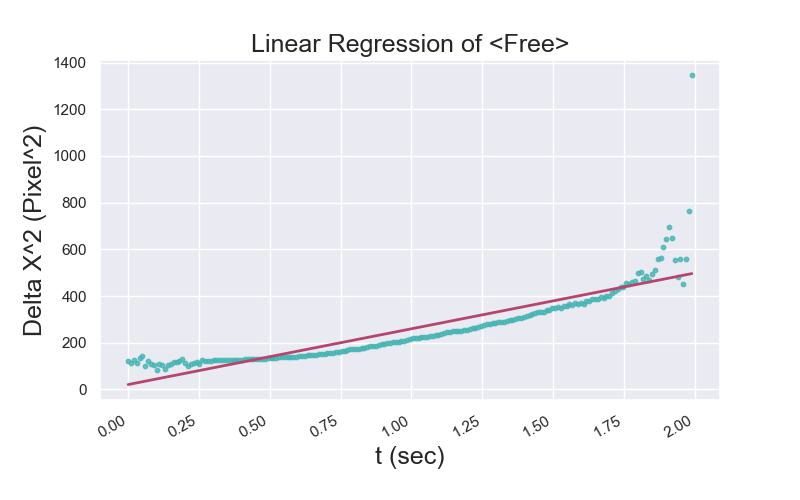
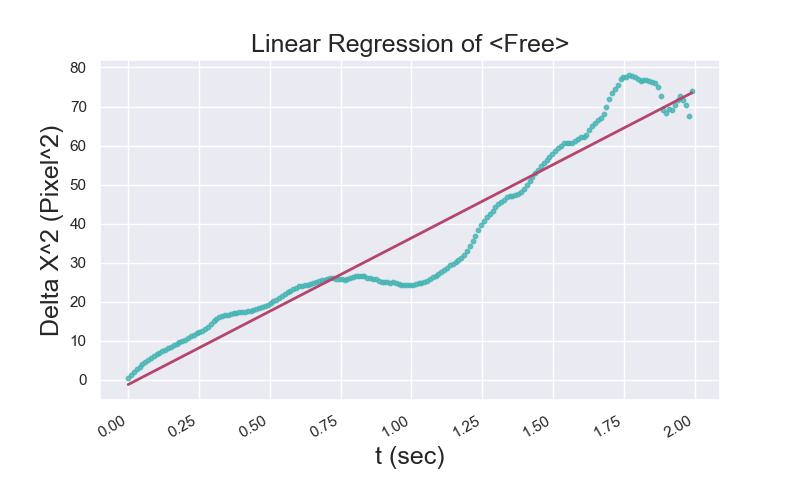
Fix loss track issue

diff --git a/utils.py b/utils.py
@@ -1,5 +1,6 @@
-from tkinter.tix import Tree
-import cv2, os, glob
+import cv2
+import os
+import glob
 from PIL import Image
 import numpy as np
 import pandas as pd
@@ -273,160 +274,7 @@ def Track(SrcFolder, OutFolder, OutName="test", SavePlot=True):
     print(f"image shape:{image_initial.shape}, ROI:{roi.shape}\n")
     return list_x, list_y
 
-def Track2(SrcFolder, OutFolder,OutName="test",SavePlot=True):
-    """
-    Track the circle particle in the pictures.
-    Return the track point result in format of two list (x_list, y_list)
-        
-    Args:
-        SrcFolder: (str) input folder locaiton (picture file)
-        OutFolder: (str) output folder location (video file)
-        OutName: (str) AVI clip name
-        SavePlot:(bool) whether to save the reuslts (sequiential figures)
-    """
-    list_x ,list_y = [],[]
-
-    #---------Find circles in images--------------------------------------------------------------------------------
-    for filename in sorted(os.listdir(SrcFolder)):
-        Corr =[0,0,0,0,0,0,0] #x1, x2, y1, y2, centerx, centery, radius 
-        image_initial = np.asarray(ReadGrayImg(f"{SrcFolder}/{filename}", False))
-        roi = image_initial.copy()
-        blur = cv2.medianBlur(image_initial,3) 
-        circles = cv2.HoughCircles(blur, cv2.HOUGH_GRADIENT,1,20,\
-                                param1=60,param2=20,\
-                                minRadius=3,maxRadius=15)
-        #https://docs.opencv.org/4.x/dd/d1a/group__imgproc__feature.html#ga47849c3be0d0406ad3ca45db65a25d2d
-        print("////"*18)
-        #print(f"=> Currenet analysis image: {OutName}")
-        
-        if circles is not None:
-            # Get the (x, y, r) as integers
-            circles = np.uint16(np.around(circles))
-            #print(circles)
-            # loop over the circles
-            for i in circles[0,:]:
-                cv2.circle(roi,(i[0],i[1]),i[2],(73, 235, 52),1) # draw outer
-                #cv2.circle(image, center_coordinates, radius, color, thickness)
-                #Thickness of -1 px will fill the circle shape by the specified color.
-                cv2.circle(roi,(i[0],i[1]),1,(255,0,0),1) # draw center
-                interval = 3
-                x1= i[0] - (i[2]+interval); Corr[0]=x1
-                x2= i[0] + (i[2]+interval); Corr[2]=x2
-                y1= i[1] - (i[2]+interval); Corr[1]=y1
-                y2= i[1] + (i[2]+interval); Corr[3]=y2
-                Corr[4]=i[0] # center X
-                Corr[5]=i[1] # center Y
-                Corr[5]=i[2] # circle radius
-                ROI = image_initial[Corr[1]:Corr[3], Corr[0]:Corr[2]]
-                filename = filename.replace(".tif","")
-                cv2.imwrite(f"{SrcFolder}/{ROI}/{filename}.png",ROI)
-
-                print(f"CenterX,CenterY:({i[0]},{i[1]}); radius:{i[2]}; (x1,y1):({x1},{y1}), (x2,y2):({x2},{y2})")
-
-                #---------NormalXCorr if there exists circles------------------------------------------------       
-                ROI = np.asarray(cv2.adaptiveThreshold(ROI,255,cv2.ADAPTIVE_THRESH_GAUSSIAN_C,\
-                    cv2.THRESH_BINARY, 11, 2))
-                image = np.asarray(cv2.adaptiveThreshold(image_initial,255,cv2.ADAPTIVE_THRESH_GAUSSIAN_C,\
-                    cv2.THRESH_BINARY, 11, 2))
-                
-                corr = normxcorr2(ROI, image, mode="same")
-                y, x = np.unravel_index(np.argmax(corr), corr.shape)  # find the match
-                list_x.append(x),list_y.append(y)
-        else:
-            # Section of dealing the the tracking lost
-            ## Current solution -> do   
-            #ROI = image_initial
-            #filename = filename.replace(".tif","")
-            #cv2.imwrite(f"./Export/TrackFile/ROI/Free/{filename}.png",ROI)
-            print("There is no circles in the picture! Please check~\n")
-            # Assign ROI to the former one  
-
-    #---------NormalXCorr--------------------------------------------------------------------------------       
-    '''
-    ROI = np.asarray(cv2.adaptiveThreshold(ROI,255,cv2.ADAPTIVE_THRESH_GAUSSIAN_C,\
-            cv2.THRESH_BINARY, 11, 2))
-        image = np.asarray(cv2.adaptiveThreshold(image_initial,255,cv2.ADAPTIVE_THRESH_GAUSSIAN_C,\
-            cv2.THRESH_BINARY, 11, 2))
-        
-        corr = normxcorr2(ROI, image, mode="same")
-        y, x = np.unravel_index(np.argmax(corr), corr.shape)  # find the match
-        list_x.append(x),list_y.append(y)
-    ''' 
-    #---------Save2Excel--------------------------------------------------------------------------------    
-    data = pd.DataFrame({'x_axis': list_x,'Y_axis':list_y})
-    data.to_excel(f"{OutFolder}/{OutName}.xlsx", sheet_name='XY', index=False)
-
-    #---------Plot Figure--------------------------------------------------------------------------------    
-    if SavePlot == False | 1:
-        for filename in sorted(SrcFolder):
-            filename =filename.replace(".tif", "")
-            image_initial = np.asarray(Image.open(f"{SrcFolder}/{filename}.tif"))
-            ROI_initial = np.asarray(Image.open(f"{SrcFolder}/{ROI}/{filename}.png"))
-
-            fig, (ax_orig, ax_corr) = plt.subplots(1, 2)
-            ax_orig.imshow(image_initial,cmap="gray")
-            ax_orig.set_title(f'{filename} (Image)')
-            ax_orig.set_axis_off()
-
-            index = sorted(os.listdir(SrcFolder)).index(f"{filename}.tif")
-            # Plot xy-center
-            ax_orig.plot(list_x[index], list_y[index],'ro', markersize=10)
-            # Plot whole track
-            ax_orig.plot(list_x[index-5:index+2], list_y[index-5:index+2],'g',marker='.',linewidth="1",markersize=5,alpha=0.8)
-
-            # Plot ROI reference
-            ax_corr.imshow(ROI_initial,cmap="gray")
-            ax_corr.set_title(f'No.{filename} (ROI/Template)')
-            ax_corr.set_axis_off()
-
-            filename = filename.replace(".tif","")
-            plt.savefig(f"{OutFolder}/{OutName}/{filename}.png", bbox_inches='tight',fontsize=16)
-            plt.cla()
-            plt.close(fig)         
-    
-    print(f"image shape:{image_initial.shape}, ROI:{roi.shape}\n")
-    return list_x, list_y
-
-def MSD(X ,Y,OutFolder,filename,ImgShow=False):
-    """
-    Plot MSD figure.
-        
-    Args:
-        X:(array) 1-D array of track result
-        Y:(array) 1-D array of track result
-        OutFolder: (str) output folder location
-        FileName: (str) figure name
-        ImgShow: (bool, default="False") Whether the show the figure
-    """
-    sol=[];y=[]; length=len(X)
-    for interval in range(1,length): # Loop interval
-        dx1=[];dy1=[];avg_x=0;avg_y=0 
-        for i in range(0,length): # Loop in single string
-            if (i+interval) < length:
-                dx1.append(int(X[i+interval] - X[i]) **2)
-                dy1.append(int(Y[i+interval] - Y[i]) **2)
-        #print(dx1,dy1)
-        avg_x,avg_y = round(sum(dx1)/len(dx1),4),round(sum(dy1)/len(dy1),4)
-        sol.append(avg_x + avg_y)
-        #print(avg_x,avg_y)
-    
-    y = sol
-    x = np.linspace(1,length-1,length-1)
-    
-    fig = plt.subplots(figsize=(8,5))
-    plt.plt(x,y)
-    plt.title(f"{filename}",fontsize=18)
-    plt.xlabel("Time interval",fontsize=18) 
-    plt.ylabel("MSD",fontsize=18)
-    plt.axis([1,length,min(y)*0.8,max(y)*1.2])
-    plt.tight_layout()
-    
-    fig.savefig(f"{OutFolder}/Plot/{filename}.jpg")       
-    if ImgShow ==True:
-        plt.show()
-    return sol
-
-def MDD(X, Y,FPS,OutFolder,filename,ImgShow=False):
+def MSD(X, Y,FPS,OutFolder,filename,ImgShow=False):
     """
     Plot MSD figure.
         
@@ -469,3 +317,109 @@ def MDD(X, Y,FPS,OutFolder,filename,ImgShow=False):
     plt.savefig(f"{OutFolder}/Plot/{filename}.jpg")  
 
     return sol
+
+def GetCenter(Image_path, OutName):
+    #OutName = Image_path.split("/")[-1].split(".")[0]
+    Corr =[0,0,0,0,0,0,0] # (x1, x2, y1, y2, centerx, centery, radius)
+    Result = [0, 0] # get (X,Y) from HoughCircles
+
+    template = cv2.imread(f"{Image_path}",0) # Read Gray Image        
+    output = cv2.cvtColor(template, cv2.COLOR_GRAY2BGR)
+    blur = cv2.medianBlur(template,3)  
+    #blur = cv2.GaussianBlur(template,(7,7),0)
+    circles = cv2.HoughCircles(blur, cv2.HOUGH_GRADIENT,1,20,\
+                    param1=50,param2=20,minRadius=5,maxRadius=16)
+
+    print("////"*18)
+    print(f"=> Currenet analysis image: {OutName}")
+    
+    if circles is not None:
+        circles = np.uint16(np.around(circles))
+        for i in circles[0,:]:
+            cv2.circle(output,(i[0],i[1]),i[2],(73, 235, 52),1) # draw outer
+            #cv2.circle(image, center_coordinates, radius, color, thickness)
+            #Thickness of -1 px will fill the circle shape by the specified color.
+            cv2.circle(output,(i[0],i[1]),1,(255,0,0),1) # draw center
+            interval = 5
+            x1 = i[0] - (i[2]+interval); Corr[0]=x1
+            x2 = i[0] + (i[2]+interval); Corr[2]=x2
+            y1 = i[1] - (i[2]+interval); Corr[1]=y1
+            y2 = i[1] + (i[2]+interval); Corr[3]=y2
+            Corr[4] = i[0] # center X
+            Corr[5] = i[1] # center Y
+            Corr[5] = i[2] # circle radius
+            output = output[Corr[1]:Corr[3], Corr[0]:Corr[2]]
+            cv2.imwrite(f"./Export/TrackFile/ROI/ROI_{OutName}.png",output)
+
+            print(f"=> Results: CenterX,CenterY: ({i[0]},{i[1]}) | radius:{i[2]}\n")
+            Result[0]=i[0]; Result[1]=i[1]
+            return Result
+    else:
+        print("There is no circles in the picture! Please check~\n") 
+
+def SeqNCC(TrackX,TrackY,idx,root,DstFolder,image_name):
+    # Current analysis image index
+    image_name = image_name.replace(".tif","")
+    roi_image = sorted(os.listdir(root))[idx]
+    roi_initial = np.asarray(cv2.imread(f"{root}/{roi_image}", cv2.IMREAD_GRAYSCALE))
+    image_initial = np.asarray(cv2.imread(f"{root}/{image_name}.tif",cv2.IMREAD_GRAYSCALE)) 
+
+    BBOX_size = 14 # Including radius and padding
+    x1 = TrackX[idx] - BBOX_size; x2 = TrackX[idx] + BBOX_size
+    y1 = TrackY[idx] - BBOX_size; y2 = TrackY[idx] + BBOX_size
+    #print(f"x1:{x1}, x2:{x2}, y1:{y1}, y2:{y2}")
+    
+    ## Cross correlation
+    image_blur = cv2.medianBlur(image_initial,1)
+    roi = roi_initial[y1:y2, x1:x2]
+    roi_blur = cv2.medianBlur(roi,1)
+
+    # cv2.imwrite(f"./Export/TrackFile/ROI/Test/{image_name}.png",roi)
+    corr = normxcorr2(roi_blur, image_blur, mode="same")
+    y, x = np.unravel_index(np.argmax(corr), corr.shape)  # find the match
+    
+    ## Plot the Track point(X,Y) overlays with original pictures
+    fig, (ax_orig, ax_corr) = plt.subplots(1, 2)
+    ax_orig.imshow(image_initial, cmap="gray")
+    ax_orig.set_title(f'{image_name} (Image)')
+    ax_orig.set_axis_off()
+
+    # Plot xy-center
+    ax_orig.plot(x, y,'ro', markersize = 6)
+    # Plot whole track
+    ax_orig.plot(TrackX[idx-5:idx+2], TrackY[idx-5:idx+2],'g',marker='.',linewidth="1",markersize=5,alpha=0.8)
+
+    # Plot ROI reference
+    ax_corr.imshow(roi, cmap="gray")
+    ax_corr.set_title(f"No.{image_name} (ROI/Template)")
+    ax_corr.set_axis_off()
+
+    plt.savefig(f"{DstFolder}/{image_name}.png", bbox_inches='tight')
+    plt.cla()
+    plt.close(fig)    
+    return x,y
+
+def Test(SrcFolder,DstFolder,GroupIndex):
+    root = f"{SrcFolder}/{GroupIndex}"
+    TrackX,TrackY =[],[]
+    first_image_name = sorted(os.listdir(root))[0:1]
+
+    TrackResult =  GetCenter(f"{root}/{''.join(first_image_name)}",GroupIndex) # Return X,Y from first picture
+    TrackX.append(TrackResult[0]); TrackY.append(TrackResult[1])
+    #print(f"=> TrackX:{TrackX}, TrackY:{TrackY}")
+
+    for image in sorted(os.listdir(root))[1:]:
+        prev_idx = sorted(os.listdir(root)).index(image) -1 # Use previous image as NormalCorrelation    
+        
+        if prev_idx < len(os.listdir(root)):
+            x,y = SeqNCC(TrackX, TrackY, prev_idx,root,DstFolder, image) # idx stands for the former one (ROI)
+            #print(f"x:{x}, y:{y}")
+            TrackX.append(x)
+            TrackY.append(y)
+    
+    #---------Save2Excel--------------------------------------------------------------------------------    
+    data = pd.DataFrame({'x_axis': TrackX,'Y_axis':TrackY})
+    data.to_excel(f"{DstFolder}/{GroupIndex}.xlsx", sheet_name='XY', index=False)
+
+    return TrackX,TrackY
+

diff --git a/main.py b/main.py
@@ -1,4 +1,5 @@
 import argparse
+
 parser = argparse.ArgumentParser(description='test')
 parser.add_argument('-a','--Animation',type=int,default=True, help='Convert sequence of images into .mp4')
 parser.add_argument('-s','--SaveFig',type=int,default=True, help='Save plot results')
@@ -7,6 +8,7 @@ args = parser.parse_args()
 _ANI,_Plot,_Export = args.Animation, args.SaveFig, args.ExportVid
 
 from utils import *
+
 #----Step1:ROOT folder/Envs setup---------------------#
 Root1 = "./Brownian_motion"
 Root2 = "./Export";  Root3 = f'{Root2}/TrackFile'
@@ -20,19 +22,23 @@ EnvSetup(f'{Root2}/RawData') # Create folder "RawData"
 for index in groups[:NUM]:
     SrcFolder=f"{Root1}/{index}"
     OutFolder=f"{Root2}/RawData"
-    #if _ANI == True|1:
-    #    IMG2MP4(SrcFolder, OutFolder, OutName=f'{index}', FPS=5)
+    # if _ANI == True|1:
+        # IMG2MP4(SrcFolder, OutFolder, OutName=f'{index}', FPS=5)
 
 #----Step3:Track through ROI-------------------------# 
 for index in groups[:NUM]:
+    tempdir = "Reserverd"
     SrcFolder1=f"{Root1}/{index}"
-    SrcFolder2=f"{Root3}/{index}"
+    SrcFolder2=f"{Root3}/{tempdir}/{index}"
     OutFolder=f"{Root3}"
+
+    _SrcFolder = "./Brownian_motion"
+    DstFolder = f"./Export/TrackFile/{tempdir}/{index}"
         
-    X,Y = Track(SrcFolder1, OutFolder, OutName=f"{index}", SavePlot=_Plot)
+    #X,Y = Track(SrcFolder1, OutFolder, OutName=f"{index}", SavePlot=_Plot)
+    X,Y = Test(_SrcFolder, DstFolder, GroupIndex=f"{index}")
     FPS =100
-    #MSD(X,Y,FPS, OutFolder, index, ImgShow=False)
-    MDD(X ,Y,FPS, OutFolder, index, ImgShow=False)
+    MSD(X ,Y,FPS, OutFolder, index, ImgShow=False)
     
     if _Export  == True|1:
         print(f"=> Converting into animation...")

diff --git a/README.md b/README.md
@@ -29,9 +29,10 @@ $ python main.py
 ```
 3. Analyze done! Check up the result in `./Export`
 
-## Current updated ***(9/6)***
+## Current updated ***(10/14)***
 1. Add different mode of tracking methods
 2. Add export excel sheet of particle tracking results
+3. Revised the computing algorithm
 
 ## Check list  
 ***(last updated 8/24***)
